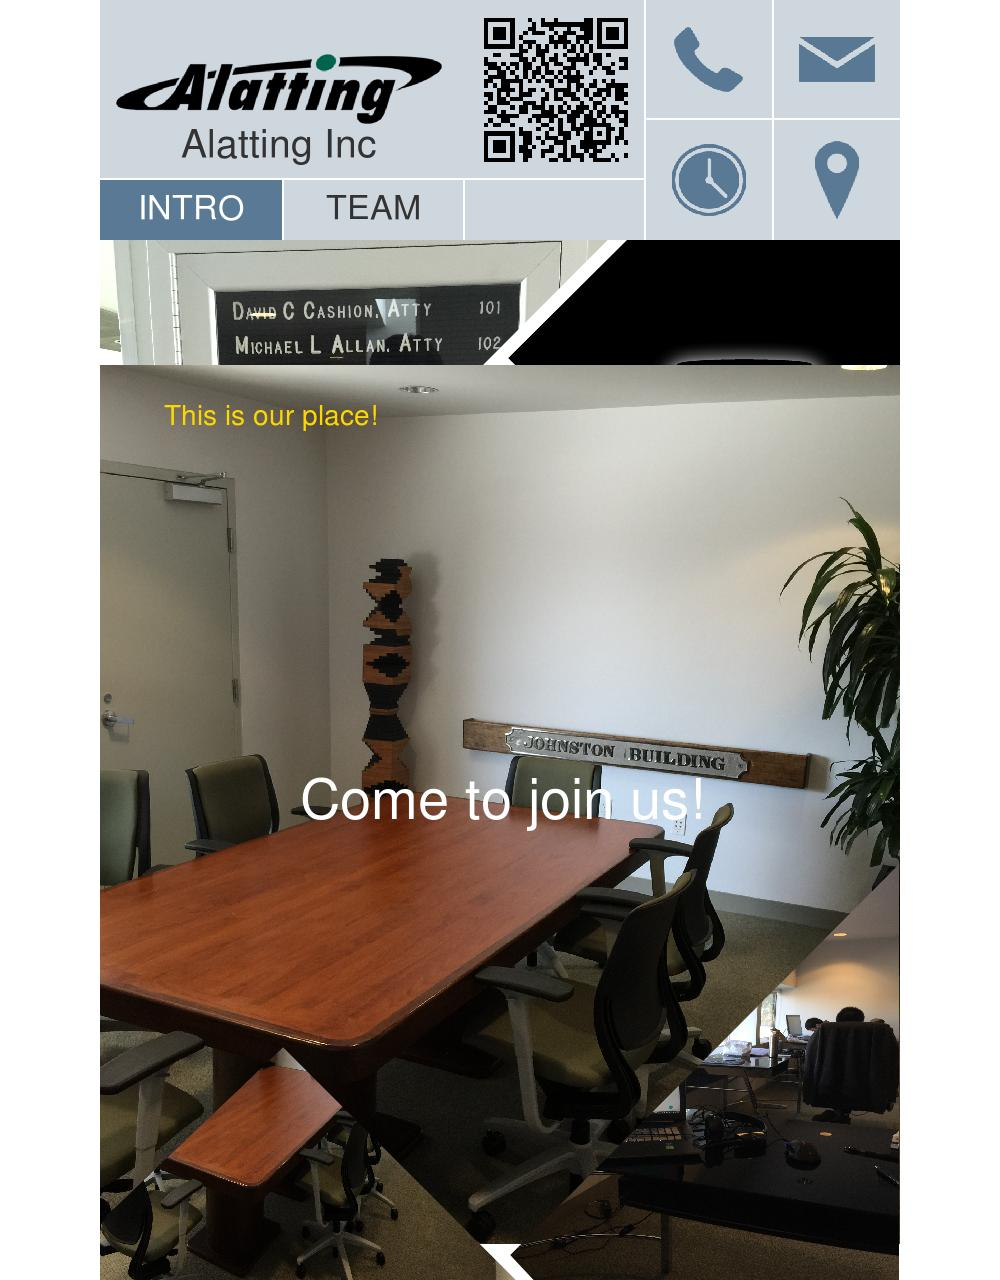
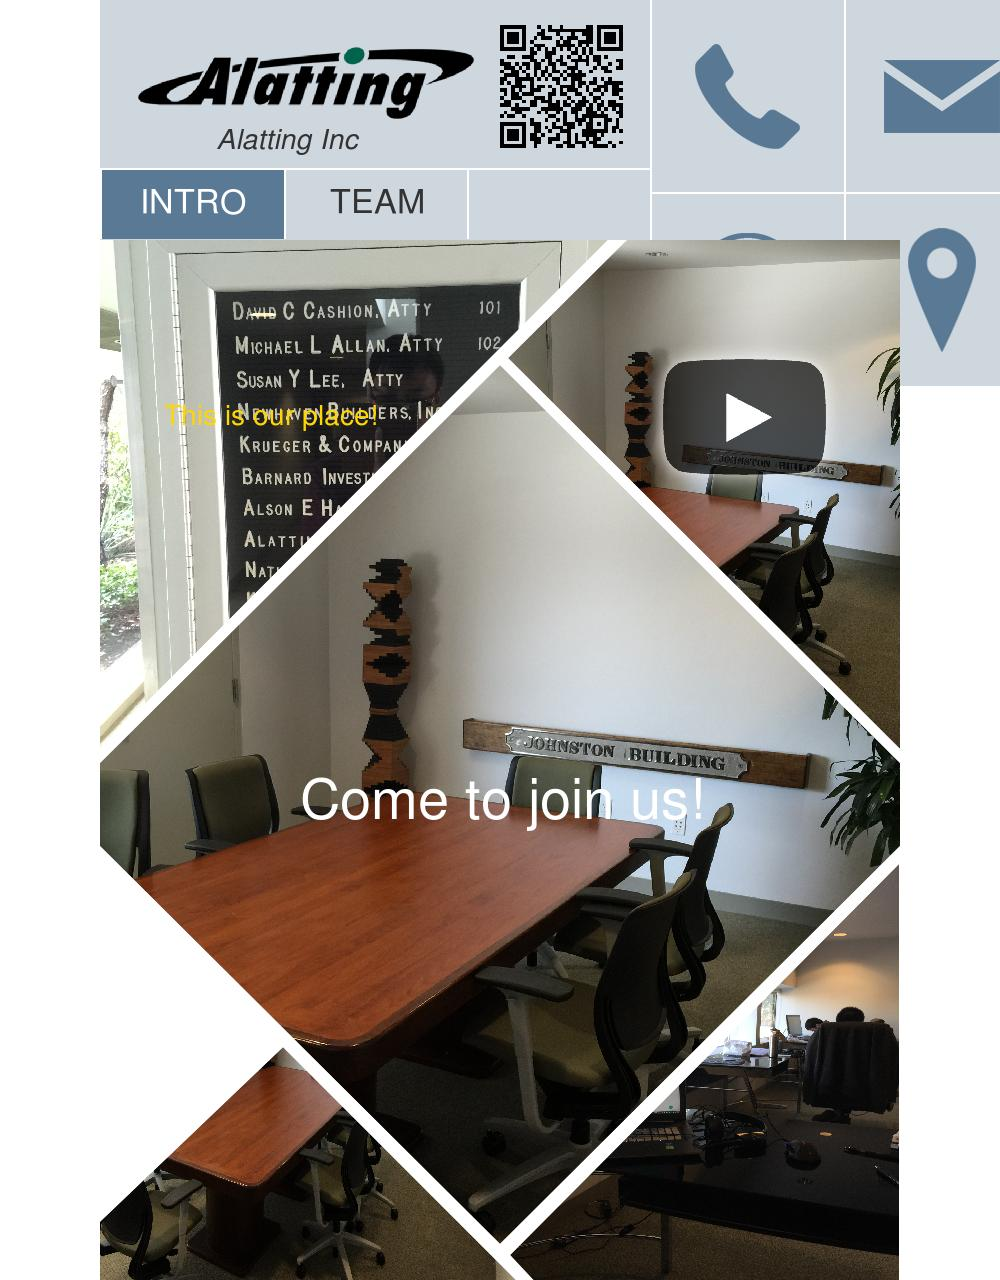
solve slider capture issue, add video preview element

diff --git a/alatting_website/templates/libs/widgets/slider.html b/alatting_website/templates/libs/widgets/slider.html
@@ -1,24 +1,13 @@
 <div class="poster-slider-widget {{ widget.class_name }} flexslider" id="{{ widget.element_id }}">
     <ul class="slides">
+    {% if object.capture %}
+        <li data-src="{{ widget.images.0.image_url }}" data-w="{{ widget.images.0.width }}"
+                data-h="{{ widget.images.0.height }}" style="display: block;"><img src="{{ widget.images.0.image_url }}"></li>
+    {% else %}
         {% for image in widget.images %}
             <li data-src="{{ image.image_url }}" data-w="{{ image.width }}"
                 data-h="{{ image.height }}"><img src="{{ image.image_url }}"></li>
         {% endfor %}
+    {% endif %}
     </ul>
-<!--div class="flex-viewport" style="overflow: hidden; position: relative;"><ul class="slides" style="width: 1600%; transition-duration: 0.6s; transform: translate3d(-2312px, 0px, 0px);"><li data-src="" data-w="" data-h="" class="clone" aria-hidden="true" style="width: 578px; float: left; display: block;"><img src="" draggable="false" style="margin-left: -8430%; width: 16960%; height: 100%;"></li>
-
-            <li data-src="/media/images/2015/09/23/2e070467cd9b4663b2ab490513785416.PNG" data-w="3264" data-h="2448" class="" style="width: 578px; float: left; display: block;"><img src="/media/images/2015/09/23/2e070467cd9b4663b2ab490513785416.PNG" draggable="false" style="margin-left: -23.3564%; width: 146.713%; height: 100%;"></li>
-
-            <li data-src="/media/images/2015/09/23/5e00488cb64b4067800b634dc6ffdee9.png" data-w="2448" data-h="3264" style="width: 578px; float: left; display: block;" class=""><img src="/media/images/2015/09/23/5e00488cb64b4067800b634dc6ffdee9.png" draggable="false" style="margin-top: -10.5886%; width: 100%; height: 121.177%;"></li>
-
-            <li data-src="/media/images/2015/09/23/3fdcb0c0f9d84f80bc4dcd8805a6dc54.png" data-w="2448" data-h="2448" style="width: 578px; float: left; display: block;" class=""><img src="/media/images/2015/09/23/3fdcb0c0f9d84f80bc4dcd8805a6dc54.png" draggable="false" style="margin-left: -5.0173%; width: 110.035%; height: 100%;"></li>
-
-            <li data-src="/media/images/2015/09/23/4d712c75f5cb4e64827939f2b62679a0.PNG" data-w="1026" data-h="906" style="width: 578px; float: left; display: block;" class="flex-active-slide"><img src="/media/images/2015/09/23/4d712c75f5cb4e64827939f2b62679a0.PNG" draggable="false" style="margin-left: -12.3071%; width: 124.614%; height: 100%;"></li>
-
-            <li data-src="/media/images/2015/09/23/0dc6eb03c4f94649b28b5977ecb3039b.PNG" data-w="991" data-h="909" style="width: 578px; float: left; display: block;"><img src="/media/images/2015/09/23/0dc6eb03c4f94649b28b5977ecb3039b.PNG" draggable="false" style="margin-left: -9.97878%; width: 119.958%; height: 100%;"></li>
-
-            <li data-src="" data-w="" data-h="" style="width: 578px; float: left; display: block;"><img src="" draggable="false" style="margin-left: -8430%; width: 16960%; height: 100%;"></li>
-
-    <li data-src="/media/images/2015/09/23/2e070467cd9b4663b2ab490513785416.PNG" data-w="3264" data-h="2448" class="clone" aria-hidden="true" style="width: 578px; float: left; display: block;"><img src="/media/images/2015/09/23/2e070467cd9b4663b2ab490513785416.PNG" draggable="false" style="margin-left: -23.3564%; width: 146.713%; height: 100%;"></li></ul>
-    </div-->
 </div>

diff --git a/alatting_website/templates/libs/photo_swipe/body.html b/alatting_website/templates/libs/photo_swipe/body.html
@@ -67,42 +67,22 @@
 
 <script type="text/javascript" charset="utf-8">
     $(window).load(function () {
-        var fillCenter = function ($slider) {
-            var $images = $slider.find('img')
-            $images.each(function (index) {
-                var $this = $(this);
-                var width = $this.parent().width();
-                var height = $this.parent().height();
-                var w = $this.width(), h = $this.height();
-                if (w / h > width / height) {
-                    w = w / h * height;
-                    h = height;
-                    var left = (width - w) / 2.0 * 100 / width;
-                    $this.css('margin-left', left + '%');
+
+        var $flexSlider = $('.flexslider')
+        if(isCapturing){
+            fillCenter($flexSlider);
+        }
+        else{
+            $flexSlider.flexslider({
+                animation: "fade",
+                controlNav: false,
+                directionNav: false,
+                start: function($slider){
+                    fillCenter($slider);
                 }
-                else {
-                    h = h / w * width;
-                    w = width;
-                    var top = (height - h) / 2.0 * 100 / height;
-                    $this.css('margin-top', top + '%');
-                }
-                w = w / width * 100;
-                h = h / height * 100;
-                $this.css('width', w + '%');
-                $this.css('height', h + '%');
             });
+        }
 
-        };
-
-        $('.flexslider').flexslider({
-            animation: "slide",
-            controlNav: false,
-            directionNav: false,
-            slideshowSpeed: 50000,
-            start: function($slider){
-                fillCenter($slider);
-            }
-        });
     });
 </script>
 

diff --git a/alatting_website/templates/website/poster.html b/alatting_website/templates/website/poster.html
@@ -12,6 +12,7 @@
 {% block head_script %}
     {{ block.super }}
     <script src="{% static 'website/js/poster.js' %}"></script>
+    <script>var isCapturing = {% if object.capture %}true{% else %}false{% endif %}</script>
 {% endblock %}
 
 {% block css %}
@@ -205,7 +206,7 @@
                                     <a href="https://www.facebook.com/sharer/sharer.php?{{ object.share.fb | safe}}"
                                     class="share-sub-btn icon-btn btn btn-navbar btn-icon-only" target="_blank">
                                         <img src="{% static 'website/images/icons/fb.png' %}"></a>
-                                    <a href="http://twitter.com/home?{{ object.share.twitter | safe}}"
+                                    <a href="http://twitter.com/intent/tweet?{{ object.share.twitter | safe}}"
                                     class="share-sub-btn icon-btn btn btn-navbar btn-icon-only" target="_blank">
                                         <img src="{% static 'website/images/icons/twitter.png' %}"></a>
                                     <a href="https://plus.google.com/share?{{ object.share.google_plus | safe}}"

diff --git a/alatting_website/static/website/js/poster.js b/alatting_website/static/website/js/poster.js
@@ -8,3 +8,32 @@ function printPDF(url){
         this.print()
     }
 }
+
+var fillCenter = function ($slider) {
+    var $images = $slider.find('img').addBack($slider)
+    $images.each(function (index) {
+        var $this = $(this);
+        if($this.is('img')) {
+            var width = $this.parent().width();
+            var height = $this.parent().height();
+            var w = this.naturalWidth, h = this.naturalHeight;
+            if (w / h > width / height) {
+                w = w / h * height;
+                h = height;
+                var left = (width - w) / 2.0 * 100 / width;
+                $this.css('margin-left', left + '%');
+            }
+            else {
+                h = h / w * width;
+                w = width;
+                var top = (height - h) / 2.0 * 100 / height;
+                $this.css('margin-top', top + '%');
+            }
+            w = w / width * 100;
+            h = h / height * 100;
+            $this.css('width', w + '%');
+            $this.css('height', h + '%');
+        }
+    });
+
+};

diff --git a/alatting_website/templates/libs/widgets/video.html b/alatting_website/templates/libs/widgets/video.html
@@ -1,5 +1,8 @@
 {% load static %}
 <div class="poster-video-widget {{ widget.class_name }}" id="{{ widget.element_id }}">
+    {% if object.capture %}
+        <img onload="fillCenter($(this))" src="/media/images/2015/09/23/2e070467cd9b4663b2ab490513785416.PNG">
+    {% else %}
     <video id="{{ widget.video_element_id }}" class="video-js" preload="auto" data-setup="{}">
         <source src="{{ widget.video_url }}" type='video/mp4'>
         <p class="vjs-no-js">
@@ -7,7 +10,8 @@
             <a href="http://videojs.com/html5-video-support/" target="_blank">supports HTML5 video</a>
         </p>
     </video>
-    <img onclick="videojs.start('{{ widget.video_element_id }}')" src="{% static 'website/images/icons/play.png' %}">
+    {% endif %}
+    <img class="video-play" onclick="videojs.start('{{ widget.video_element_id }}')" src="{% static 'website/images/icons/play.png' %}">
 
 </div>
 

diff --git a/alatting_website/static/website/css/poster.css b/alatting_website/static/website/css/poster.css
@@ -793,16 +793,22 @@
 }
 
 /* video */
-div.poster-video-widget > div{
+.poster-video-widget > div{
     width: 100%;
     height: 100%;
     overflow: hidden;
 }
 
-div.poster-video-widget video{
+.poster-video-widget video{
     overflow: hidden;
 }
 
-div.poster-video-widget img{
+.poster-video-widget img {
+    max-width: none;
+}
+
+.poster-video-widget .video-play{
     pointer-events: auto !important;
 }
+
+/* image */

diff --git a/alatting_website/templates/libs/widgets/image.html b/alatting_website/templates/libs/widgets/image.html
@@ -1,3 +1,3 @@
-<div class="{{ widget.class_name }}" id="{{ widget.element_id }}" >
+<div class="poster-image-widget {{ widget.class_name }}" id="{{ widget.element_id }}" >
 <img src="{{ widget.image_url }}" alt='' />
 </div>

diff --git a/media/html5/2015/09/23/d41a8813c084476b9121e86b42b8d1a9.css b/media/html5/2015/09/23/d41a8813c084476b9121e86b42b8d1a9.css
@@ -12,7 +12,7 @@
     color: white;
 }
 
-.poster-widget-video_1 img{
+.poster-widget-video_1 .video-play{
     position: absolute;
     left: 35%;
     top: 20%;

diff --git a/alatting_website/views.py b/alatting_website/views.py
@@ -50,8 +50,9 @@ class PosterView(DetailView):
             poster_page.regions = poster_regions
         obj.pages = pages
         obj.regions = regions
+        obj.capture = 'capture' in self.request.GET
         PosterService.parse_media_file(obj.html.name, obj)
-        obj.image_url, obj.pdf_url = PosterService.capture(self.request, obj, force='capture' in self.request.GET)
+        obj.image_url, obj.pdf_url = PosterService.capture(self.request, obj, force='force' in self.request.GET)
         obj.share = self.create_share(obj)
         return obj
 
@@ -73,7 +74,7 @@ class PosterView(DetailView):
         #
         share.fb = 'u=%s' % encoded_url
         #
-        share.twitter = 'status=%s' % encoded_url_detail
+        share.twitter = 'text=%s' % encoded_url_detail
         #
         share.google_plus = 'url=%s' % encoded_url
         #

diff --git a/alatting_website/logic/poster_service.py b/alatting_website/logic/poster_service.py
@@ -54,7 +54,7 @@ class PosterService:
             force = True
         if force:
             url = request.scheme + '://' + request.get_host()
-            url = url + reverse('website:poster', kwargs={'pk': poster.id})
+            url = url + reverse('website:poster', kwargs={'pk': poster.id}) + '?capture=true'
             if ScreenShot.capture(url, image_path, width, height, view_height=view_height):
                 ScreenShot.image_to_pdf(image_path, pdf_path)
             else:

diff --git a/utils/capture/screen_shot.py b/utils/capture/screen_shot.py
@@ -35,7 +35,7 @@ class ScreenShot(object):
     def test(cls, url):
         path = os.path.dirname(__file__)
         path = os.path.join(path, 'test.jpg')
-        cls.capture(url, path, 1000, 1280, view_height=2048)
+        cls.capture(url + '?capture=true', path, 1000, 1280, view_height=2048)
         return path
 
 # ScreenShot.test()
